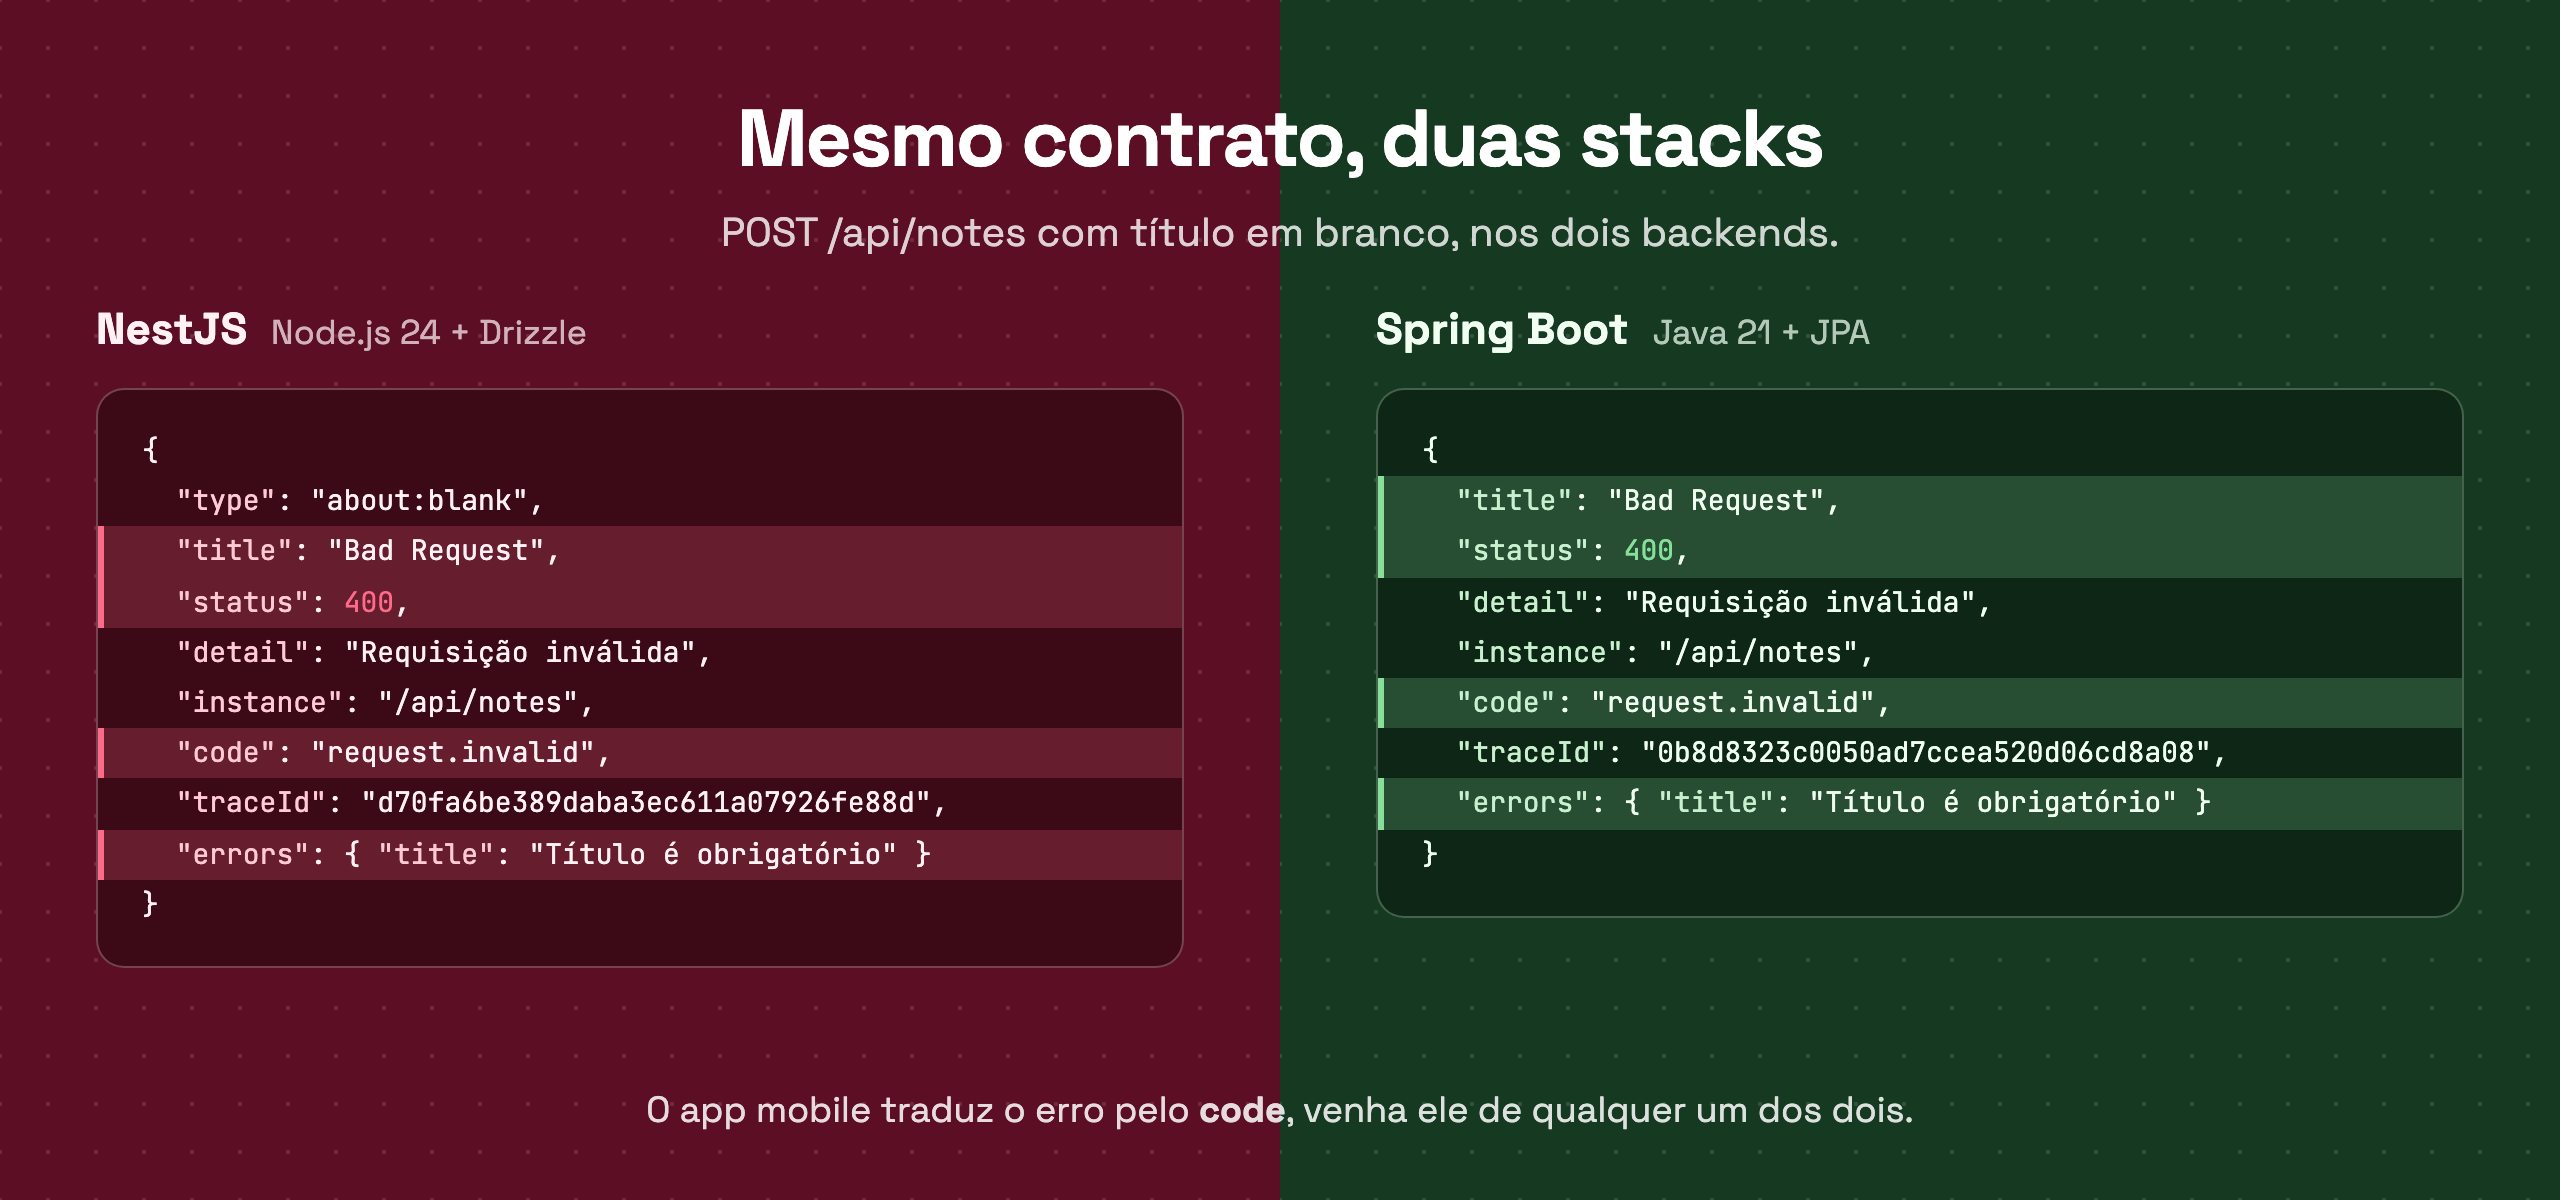
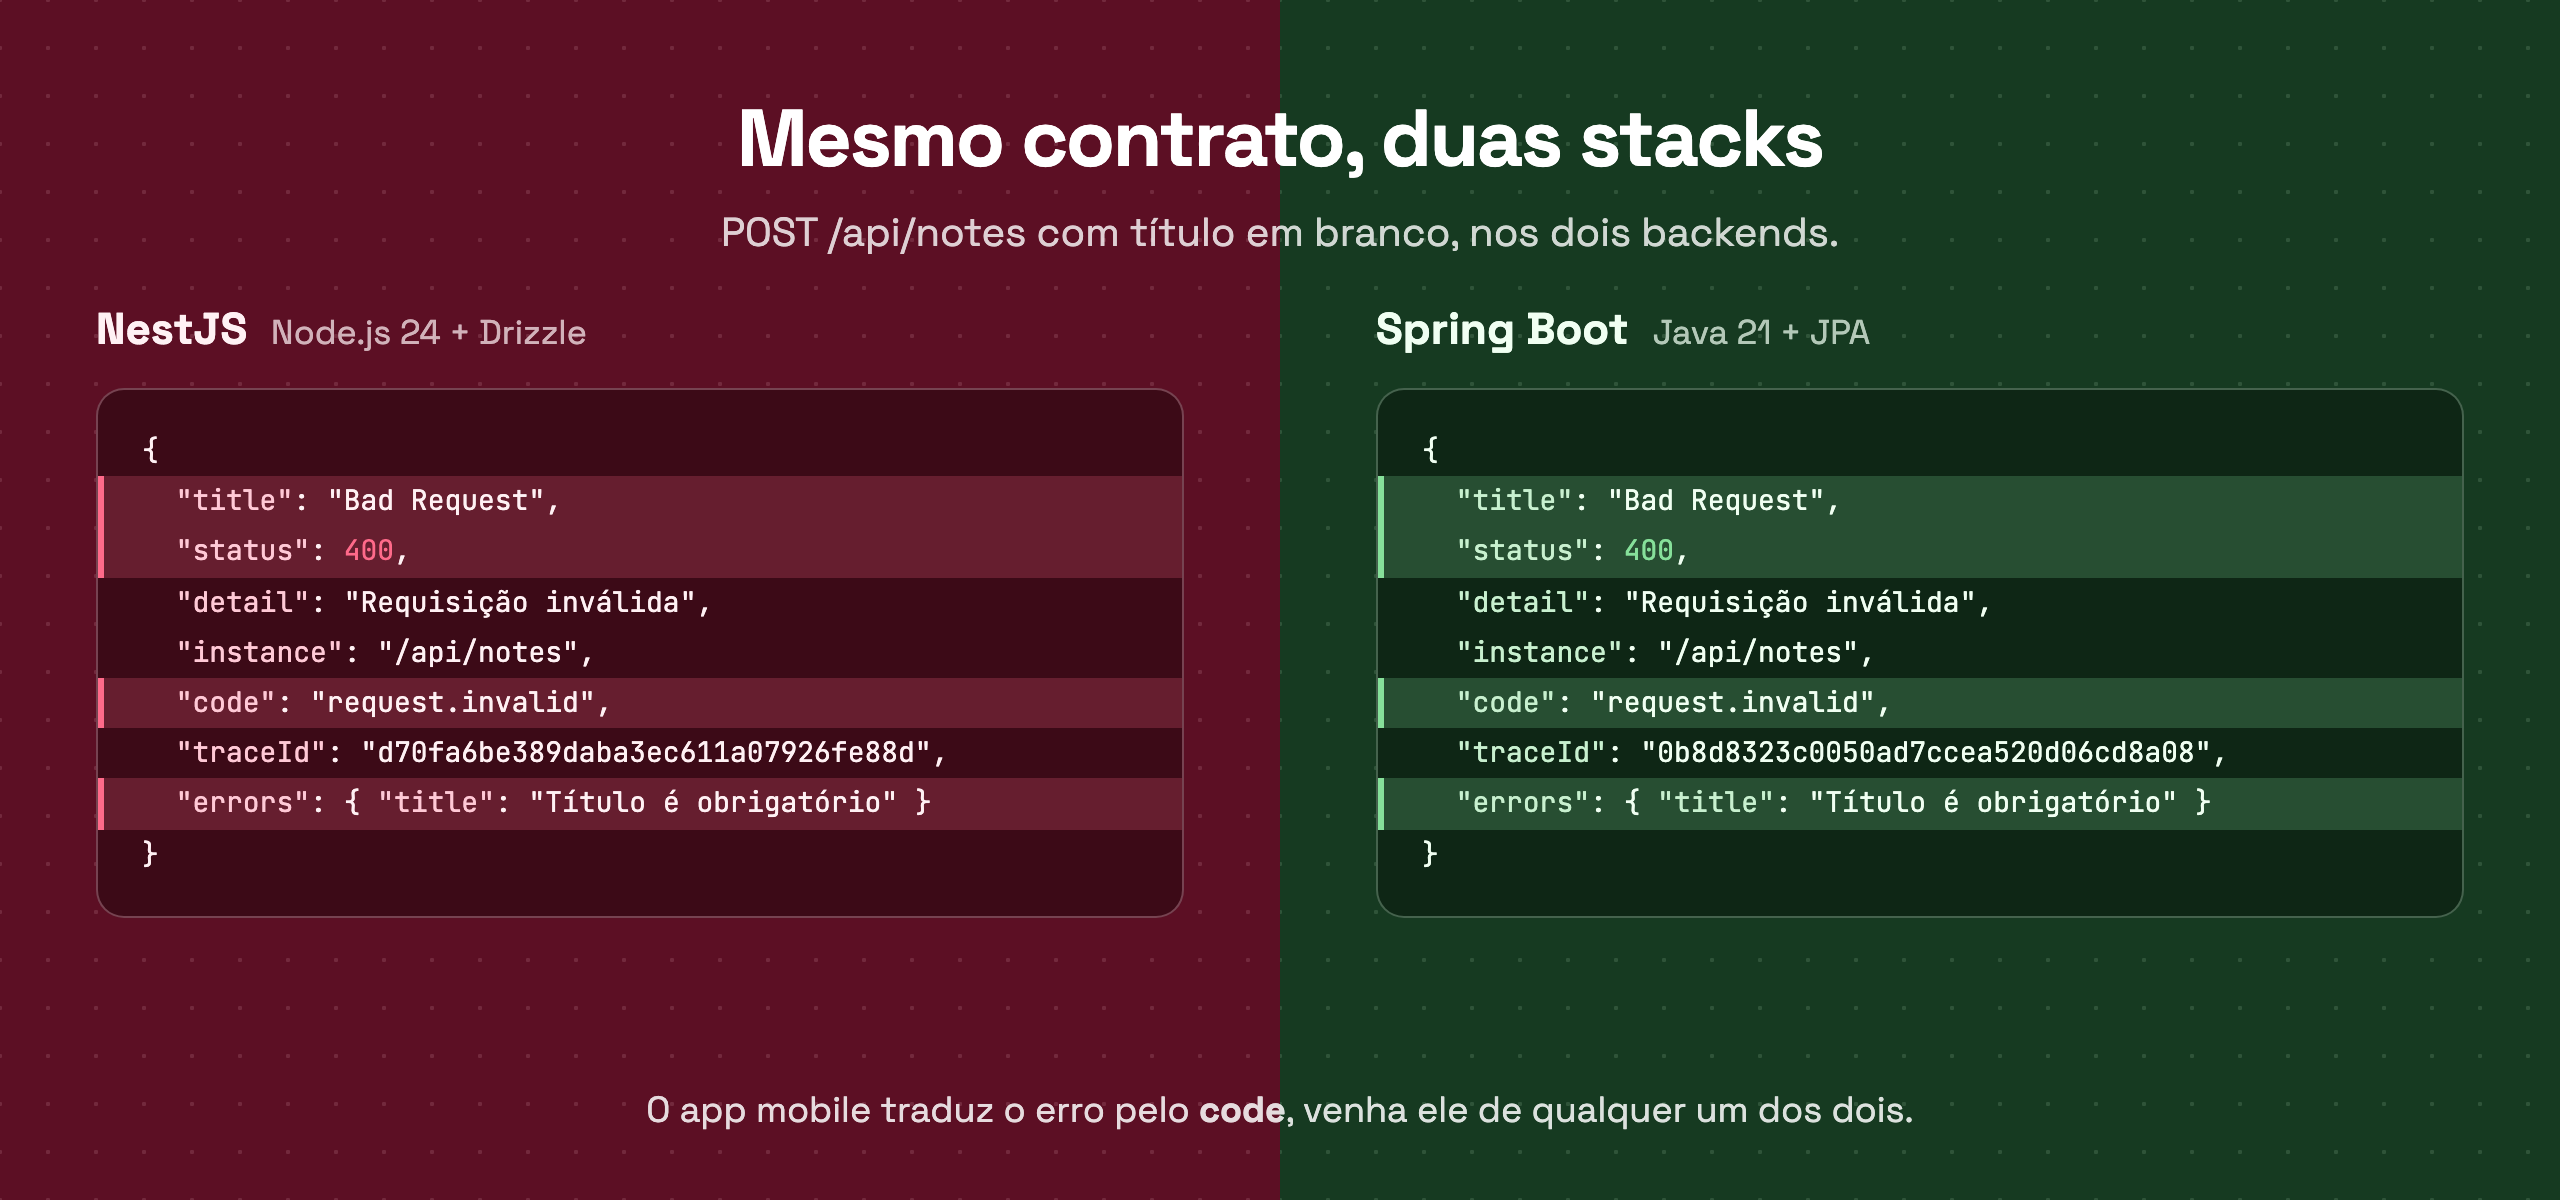
docs: atualiza o README com o contrato completo dos backends e a nova arte da família

Changed region(s): [[0.0312, 0.37, 0.4688, 0.8325]]

diff --git a/README.md b/README.md
@@ -91,7 +91,8 @@ qual roda. O passo a passo está em [docs/ARCHITECTURE.md](docs/ARCHITECTURE.md)
 
 Os três falam o mesmo contrato: a mesma API de notas de exemplo, erros RFC 9457 com o mesmo `code`
 estável e o mesmo vocabulário de `ErrorType`. O time escolhe o backend pela linguagem que domina,
-e o `HttpClient` do app lê os erros de qualquer um dos dois sem adaptação.
+e o app funciona com qualquer um dos dois sem mudar uma linha: lista, cria, abre notas e traduz
+os erros.
 
 ## Comece em um minuto
 
@@ -156,9 +157,9 @@ A troca acontece só em `src/bootstrap/app-dependencies.ts`: modelo, ViewModels 
 mudam. No emulador Android, rode `npm run adb` para que `localhost` alcance a
 máquina.
 
-> Os templates de backend publicam `POST /api/notes` e `GET /api/notes/{id}`. A listagem usa
-> `GET /api/notes?page=0&size=20`, que devolve `{ items, total }` no formato de `Page`; esse
-> endpoint precisa existir no backend para a lista funcionar no modo `http`.
+> Os dois templates de backend publicam o contrato que o app usa: `POST /api/notes`,
+> `GET /api/notes/{id}` e `GET /api/notes?page=0&size=20`, que devolve `{ items, total }` no
+> formato de `Page`, com as notas mais recentes primeiro.
 
 ## Debug
 
